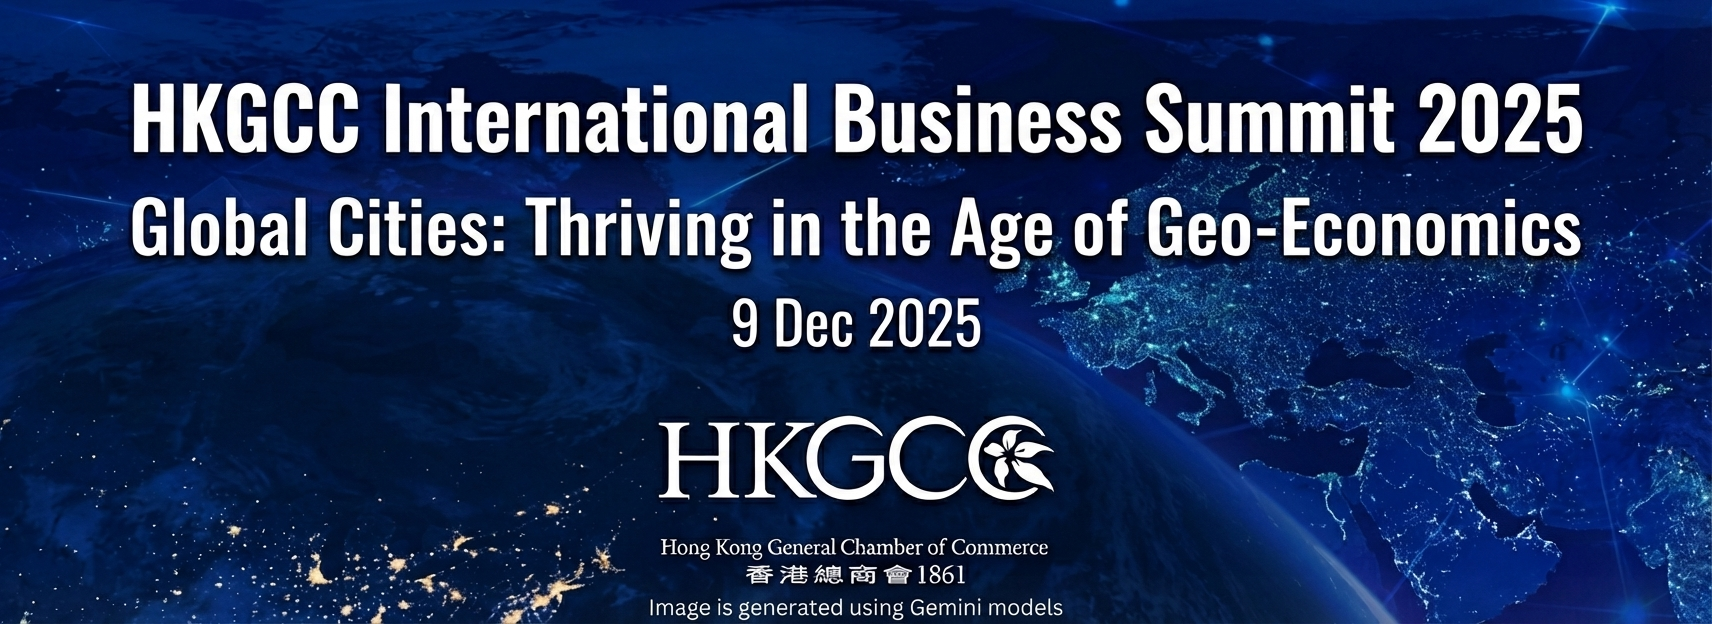
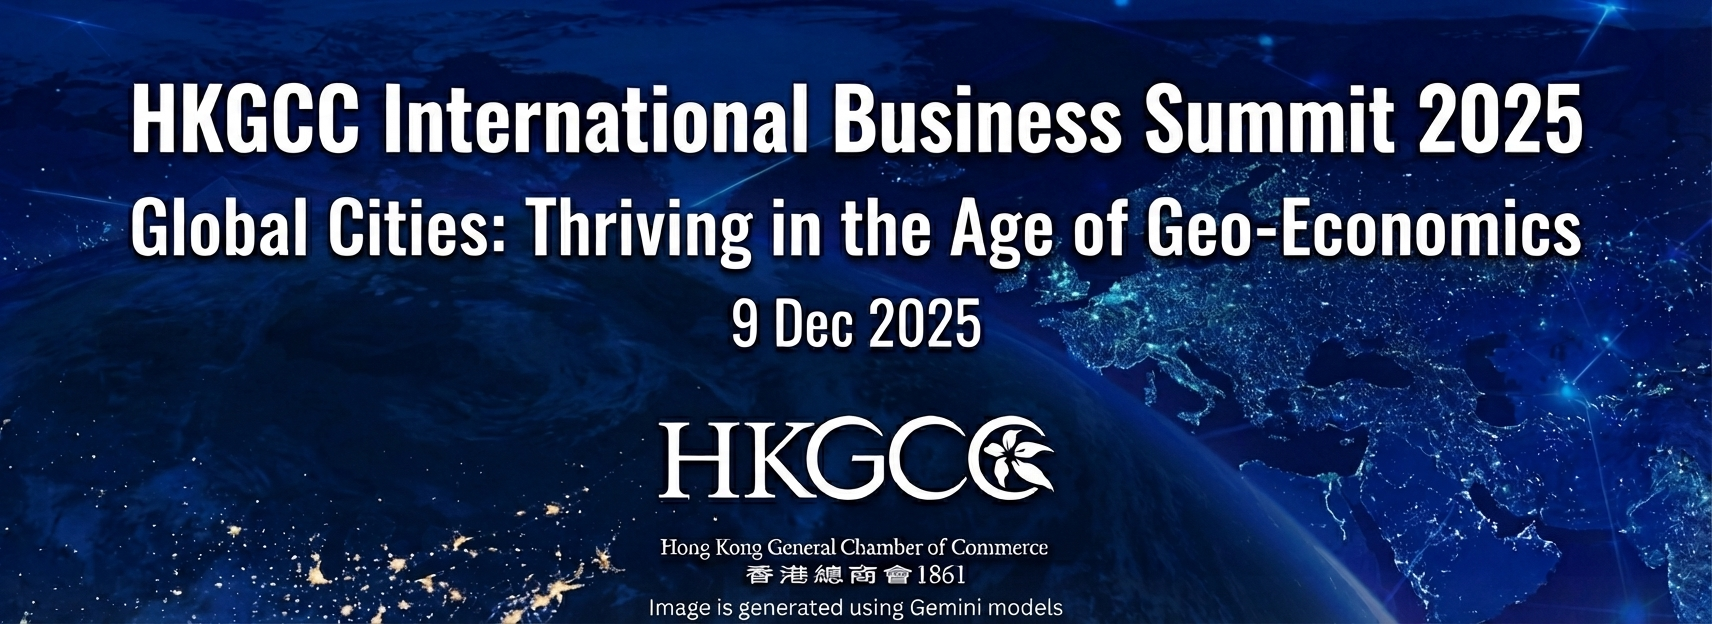
Boarden overlay text

Changed region(s): [[0.4334, 0.9135, 0.4953, 0.9439]]

diff --git a/main.py b/main.py
@@ -34,7 +34,7 @@ def get_gemini_api_key():
 
 
 
-def process_image(image_data, overlay_text="Presented by Google"):
+def process_image(image_data, overlay_text="Made Possible By Google"):
     """
     整合圖片處理：添加底部 Banner 與 右下角文字。
     使用系統內建的 DejaVuSans-Bold 字體。
@@ -86,8 +86,8 @@ def process_image(image_data, overlay_text="Presented by Google"):
         # # (選用) 畫一個黑色陰影，讓白字在任何背景都清楚
         # draw.text((x+1, y+1), overlay_text, font=font, fill=(0, 0, 0)) 
         
-        # 畫上白色主文字
-        draw.text((x, y), overlay_text, font=font, fill=(255, 255, 255))
+        # 畫上白色主文字 with a black stroke
+        draw.text((x, y), overlay_text, font=font, fill=(255, 255, 255), stroke_width=2, stroke_fill=(0, 0, 0))
 
         # --- 步驟 C: 輸出結果 ---
         img_byte_arr = io.BytesIO()
